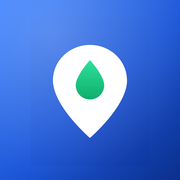
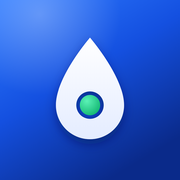
Add files via upload

diff --git a/index.html b/index.html
@@ -9,9 +9,9 @@
 <meta name="mobile-web-app-capable" content="yes">
 <meta name="apple-mobile-web-app-status-bar-style" content="default">
 <meta name="apple-mobile-web-app-title" content="Diésel Cerca">
-<link rel="manifest" href="manifest.webmanifest">
-<link rel="icon" href="icono-192.png">
-<link rel="apple-touch-icon" href="icono-180.png">
+<link rel="manifest" href="manifest.webmanifest?v=3">
+<link rel="icon" href="icono-192.png?v=3">
+<link rel="apple-touch-icon" href="icono-180.png?v=3">
 <link rel="preconnect" href="https://fonts.googleapis.com">
 <link rel="preconnect" href="https://fonts.gstatic.com" crossorigin>
 <link rel="stylesheet" href="https://fonts.googleapis.com/css2?family=Barlow+Condensed:wght@600;700&family=Figtree:wght@400;500;600;700;800&display=swap">
@@ -221,7 +221,7 @@ button:focus-visible,a:focus-visible,[tabindex]:focus-visible{outline:2px solid 
 <header class="top">
   <div class="marca">
     <div class="logo" aria-hidden="true">
-      <svg viewBox="0 0 24 24" width="20" height="20"><path fill="#fff" d="M12 2.2c-4.3 0-7.8 3.3-7.8 7.5 0 5.4 7.8 12.1 7.8 12.1s7.8-6.7 7.8-12.1c0-4.2-3.5-7.5-7.8-7.5z"/><path fill="#16C47F" d="M12 5.4s-3 3.3-3 5.3a3 3 0 0 0 6 0c0-2-3-5.3-3-5.3z"/></svg>
+      <svg viewBox="0 0 24 24" width="20" height="20"><path fill="#fff" fill-rule="evenodd" d="M12 2.8s-4.6 5.3-4.6 9.1a4.6 4.6 0 0 0 9.2 0c0-3.8-4.6-9.1-4.6-9.1zm0 7.3a1.85 1.85 0 1 0 0 3.7 1.85 1.85 0 0 0 0-3.7z"/><circle cx="12" cy="11.95" r="1.35" fill="#2BE39A"/></svg>
     </div>
     <div class="marca-txt">
       <b>Diésel Cerca</b>
